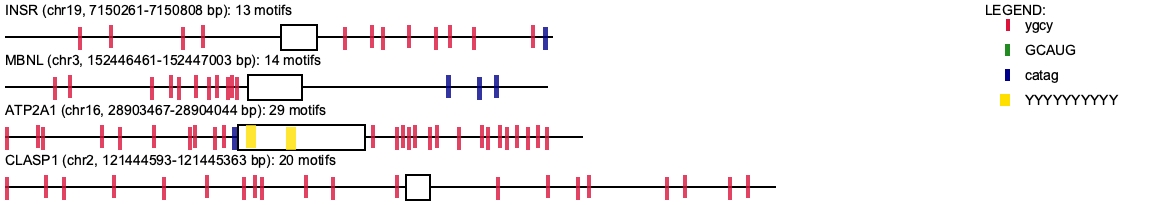
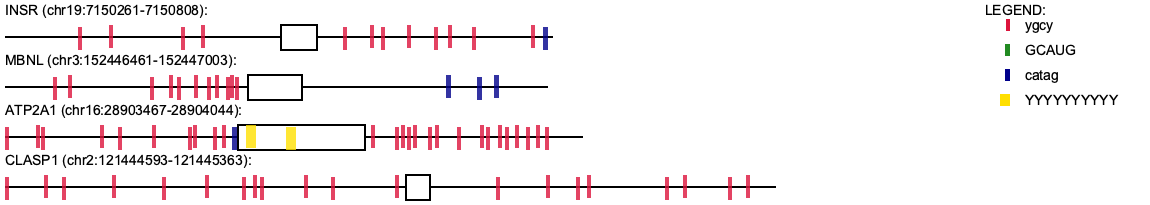
20250306

diff --git a/motif-mark-oop.py b/motif-mark-oop.py
@@ -202,7 +202,7 @@ class Record():
         self.gname = gname                          # name of gene
         self.lines = self.get_lines()
         self.motifs = self.find_motifs(motifs)      # list of motif objects
-        self.title = f'{gname} ({chrom}, {pos} bp): {len(self.motifs)} motifs'
+        self.title = f'{gname} ({chrom}:{pos}):'
         # self.title = f'{header}'
 
     def __str__(self):
